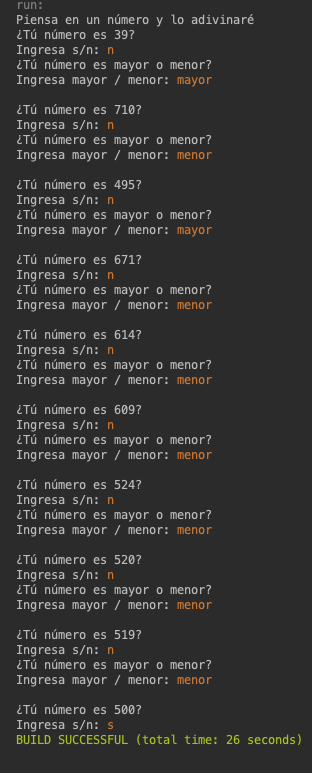
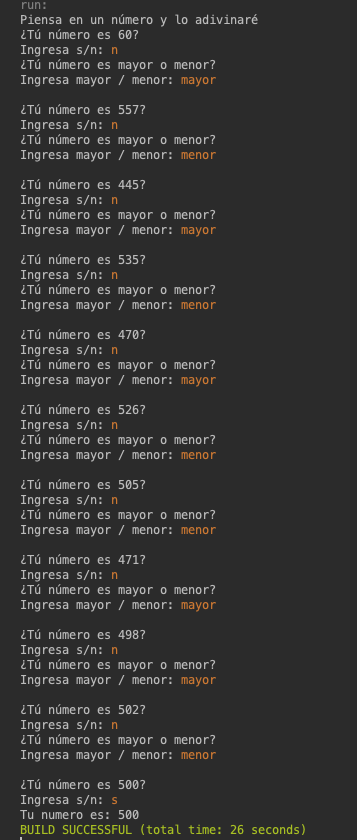
code and image update

Changed region(s): [[0.0577, 0.0, 0.6923, 1.0], [0.6058, 0.9314, 0.9519, 0.9935], [0.5481, 0.0, 0.8077, 0.031]]

diff --git a/index.html b/index.html
@@ -4,42 +4,45 @@
     <meta charset="UTF-8">
     <meta http-equiv="X-UA-Compatible" content="IE=edge">
     <meta name="viewport" content="width=device-width, initial-scale=1.0">
-    <title>Document</title>
+    <title>Tarea 2</title>
 </head>
 <body>
     <h1>Tarea 2</h1>
     <h2>Encontrar un número entre 1 - 1000</h2>
     <h3>código:</h3>
-    <p><br />
-        import java.util.Scanner;</p>
-    
-    <p><br />
-        public class adivina {<br />
-        &nbsp; &nbsp; public static void main(String[] args) {<br />
-        &nbsp; &nbsp; &nbsp; &nbsp; Scanner sc = new Scanner(System.in);<br />
-        &nbsp; &nbsp; &nbsp; &nbsp; int min = 0;<br />
-        &nbsp; &nbsp; &nbsp; &nbsp; int max = 1000;<br />
-        &nbsp; &nbsp; &nbsp; &nbsp; int n;<br />
-        &nbsp; &nbsp; &nbsp; &nbsp; String r, m;<br />
-        &nbsp; &nbsp; &nbsp; &nbsp; System.out.println(&quot;Piensa en un n&uacute;mero y lo adivinar&eacute;&quot;);<br />
-        &nbsp; &nbsp; &nbsp; &nbsp; do {<br />
-        &nbsp; &nbsp; &nbsp; &nbsp; &nbsp; &nbsp; n = (int)(Math.random()*(max-min) + min);<br />
-        &nbsp; &nbsp; &nbsp; &nbsp; &nbsp; &nbsp; System.out.println(&quot;&iquest;T&uacute; n&uacute;mero es
-        &quot;+n+&quot;?&quot;);<br />
-        &nbsp; &nbsp; &nbsp; &nbsp; &nbsp; &nbsp; System.out.print(&quot;Ingresa s/n: &quot;);<br />
-        &nbsp; &nbsp; &nbsp; &nbsp; &nbsp; &nbsp; r = sc.next();<br />
-        &nbsp; &nbsp; &nbsp; &nbsp; &nbsp; &nbsp; if(&quot;s&quot;.equals(r)) break;<br />
-        &nbsp; &nbsp; &nbsp; &nbsp; &nbsp; &nbsp; System.out.println(&quot;&iquest;T&uacute; n&uacute;mero es mayor o
-        menor?&quot;);<br />
-        &nbsp; &nbsp; &nbsp; &nbsp; &nbsp; &nbsp; System.out.print(&quot;Ingresa mayor / menor: &quot;);<br />
-        &nbsp; &nbsp; &nbsp; &nbsp; &nbsp; &nbsp; m = sc.next();<br />
-        &nbsp; &nbsp; &nbsp; &nbsp; &nbsp; &nbsp; System.out.println(&quot;&quot;);<br />
-        &nbsp; &nbsp; &nbsp; &nbsp; &nbsp; &nbsp; if (&quot;mayor&quot;.equals(m)) min = n-1;<br />
-        &nbsp; &nbsp; &nbsp; &nbsp; &nbsp; &nbsp; if (&quot;menor&quot;.equals(m)) max = n+1;<br />
-        &nbsp; &nbsp; &nbsp; &nbsp; } while (&quot;n&quot;.equals(r));<br />
-        &nbsp; &nbsp; }<br />
-        }</p>
+    <div>
+        <p><br />
+            import java.util.Scanner;</p>
+        
+        <p><br />
+            public class adivina {<br />
+            &nbsp; &nbsp; public static void main(String[] args) {<br />
+            &nbsp; &nbsp; &nbsp; &nbsp; Scanner sc = new Scanner(System.in);<br />
+            &nbsp; &nbsp; &nbsp; &nbsp; int min = 0;<br />
+            &nbsp; &nbsp; &nbsp; &nbsp; int max = 1000;<br />
+            &nbsp; &nbsp; &nbsp; &nbsp; int n;<br />
+            &nbsp; &nbsp; &nbsp; &nbsp; String r, m;<br />
+            &nbsp; &nbsp; &nbsp; &nbsp; System.out.println(&quot;Piensa en un n&uacute;mero y lo adivinar&eacute;&quot;);<br />
+            &nbsp; &nbsp; &nbsp; &nbsp; do {<br />
+            &nbsp; &nbsp; &nbsp; &nbsp; &nbsp; &nbsp; n = (int)(Math.random()*(max-min) + min);<br />
+            &nbsp; &nbsp; &nbsp; &nbsp; &nbsp; &nbsp; System.out.println(&quot;&iquest;T&uacute; n&uacute;mero es
+            &quot;+n+&quot;?&quot;);<br />
+            &nbsp; &nbsp; &nbsp; &nbsp; &nbsp; &nbsp; System.out.print(&quot;Ingresa s/n: &quot;);<br />
+            &nbsp; &nbsp; &nbsp; &nbsp; &nbsp; &nbsp; r = sc.next();<br />
+            &nbsp; &nbsp; &nbsp; &nbsp; &nbsp; &nbsp; if(&quot;s&quot;.equals(r)) break;<br />
+            &nbsp; &nbsp; &nbsp; &nbsp; &nbsp; &nbsp; System.out.println(&quot;&iquest;T&uacute; n&uacute;mero es mayor o
+            menor?&quot;);<br />
+            &nbsp; &nbsp; &nbsp; &nbsp; &nbsp; &nbsp; System.out.print(&quot;Ingresa mayor / menor: &quot;);<br />
+            &nbsp; &nbsp; &nbsp; &nbsp; &nbsp; &nbsp; m = sc.next();<br />
+            &nbsp; &nbsp; &nbsp; &nbsp; &nbsp; &nbsp; System.out.println(&quot;&quot;);<br />
+            &nbsp; &nbsp; &nbsp; &nbsp; &nbsp; &nbsp; if (&quot;mayor&quot;.equals(m)) min = n+1;<br />
+            &nbsp; &nbsp; &nbsp; &nbsp; &nbsp; &nbsp; if (&quot;menor&quot;.equals(m)) max = n-1;<br />
+            &nbsp; &nbsp; &nbsp; &nbsp; } while (&quot;n&quot;.equals(r));<br />
+            &nbsp; &nbsp; &nbsp; &nbsp; System.out.println(&quot;Tu numero es: &quot;+n);<br />
+            &nbsp; &nbsp; }<br />
+            }</p>
 
+    </div>
     <h3>resultados:</h3>
     <img src="./img1.png" alt="" srcset="">
 </body>
